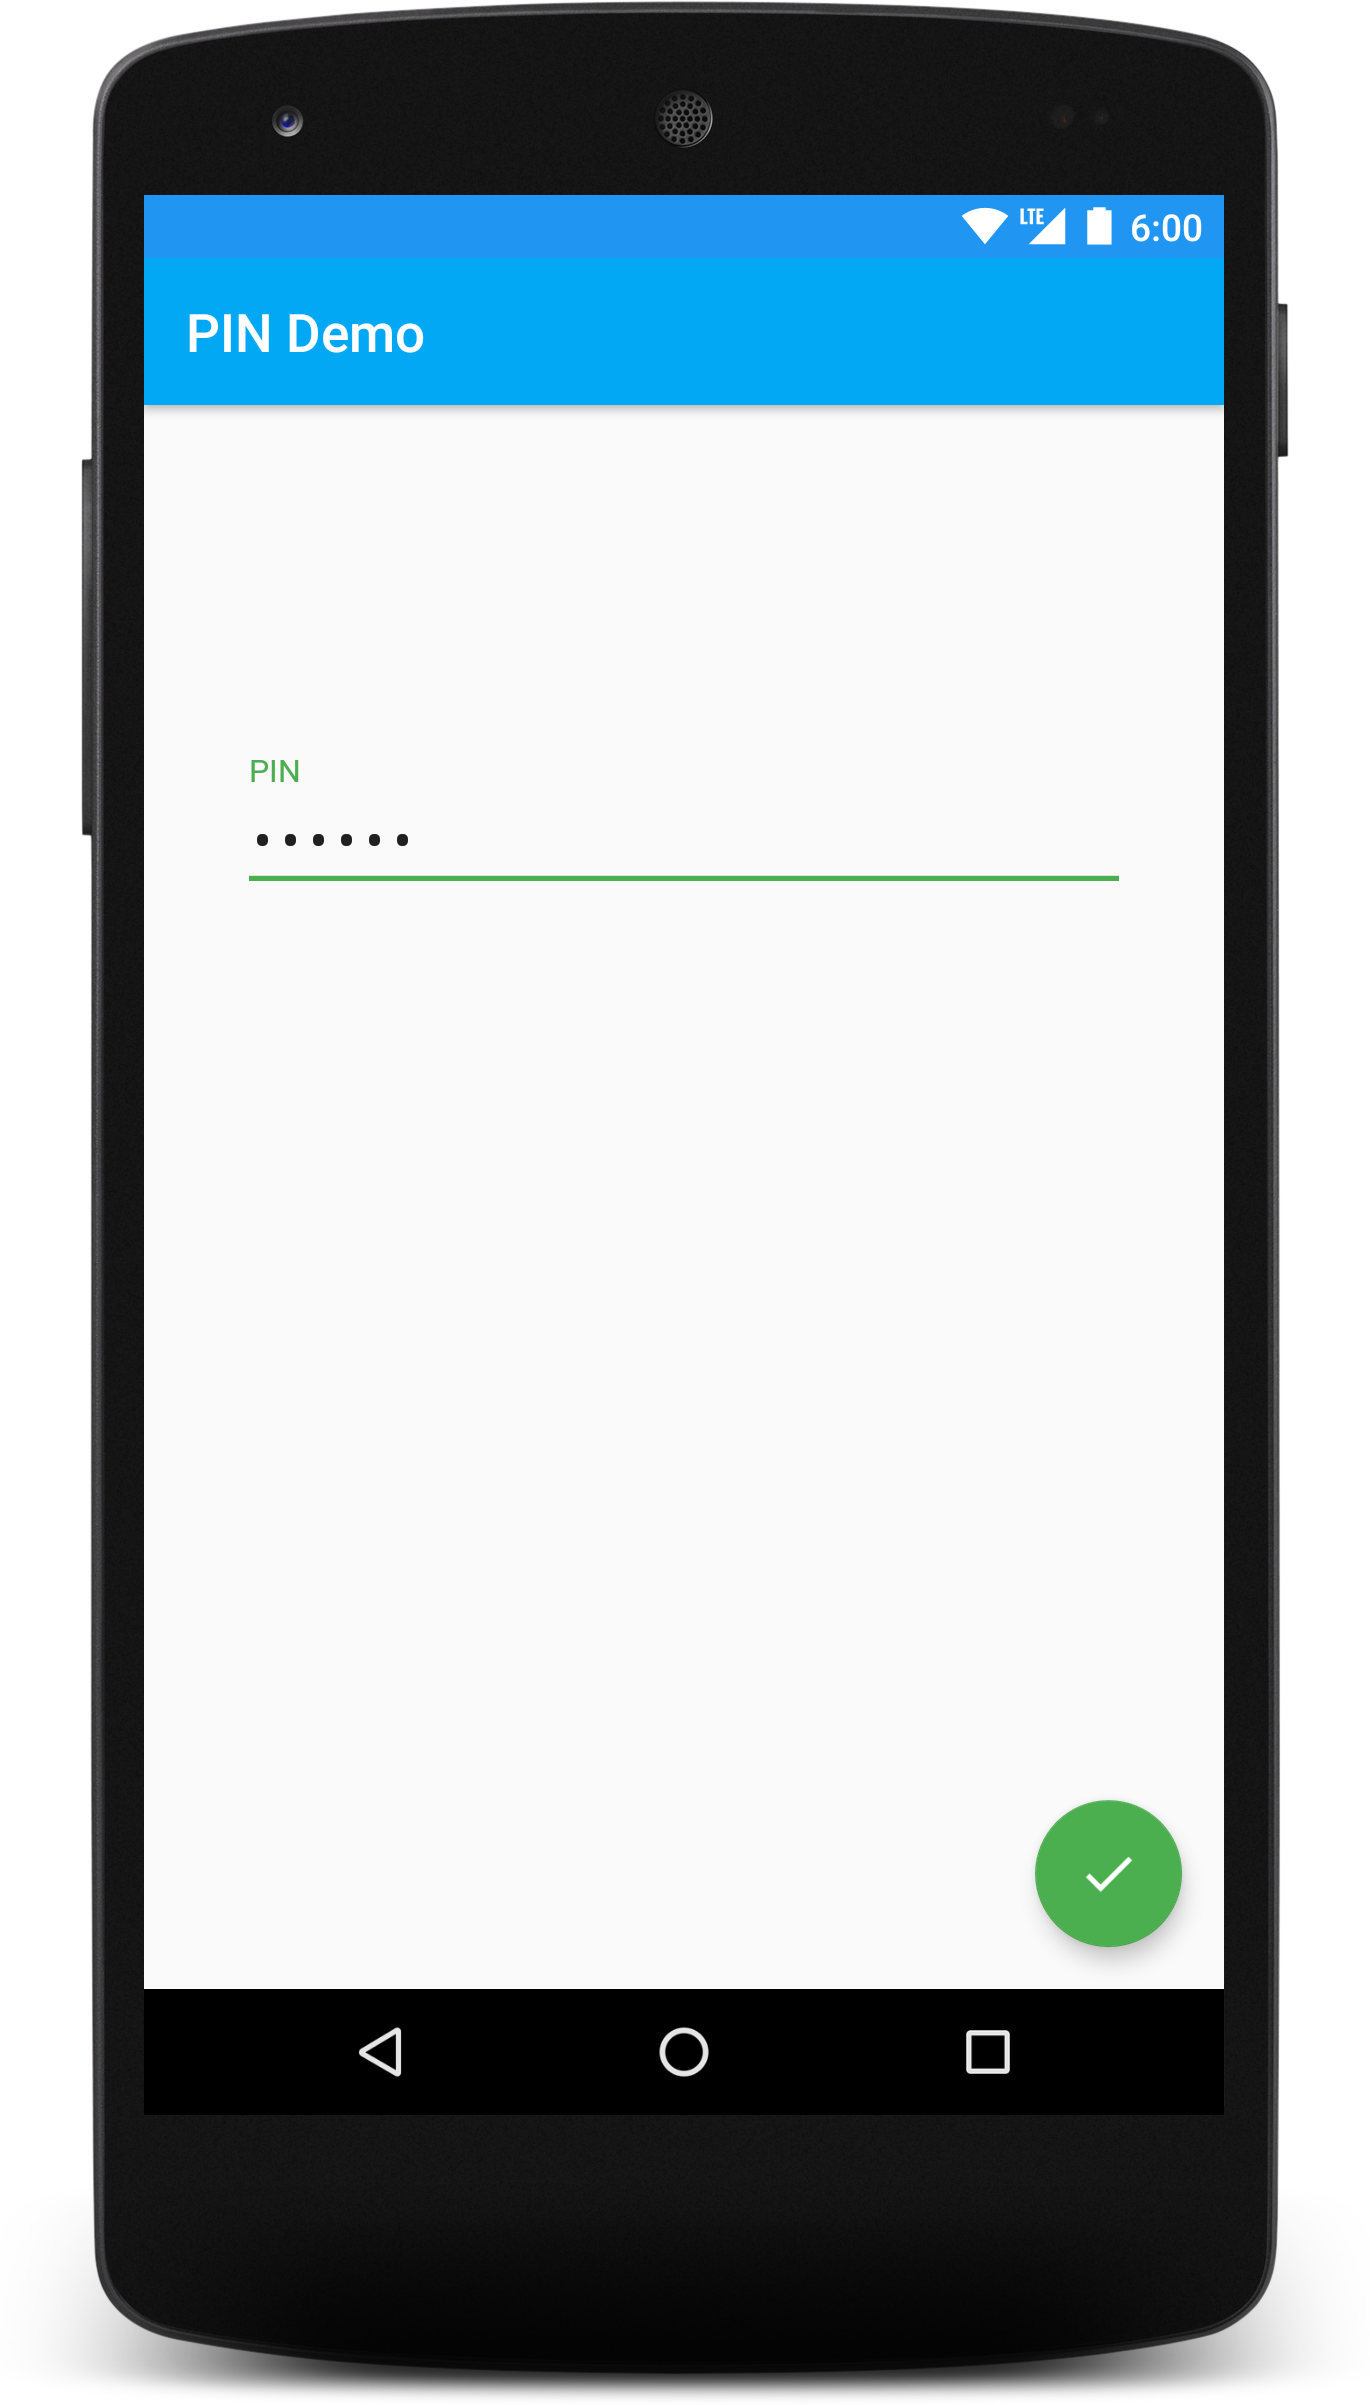
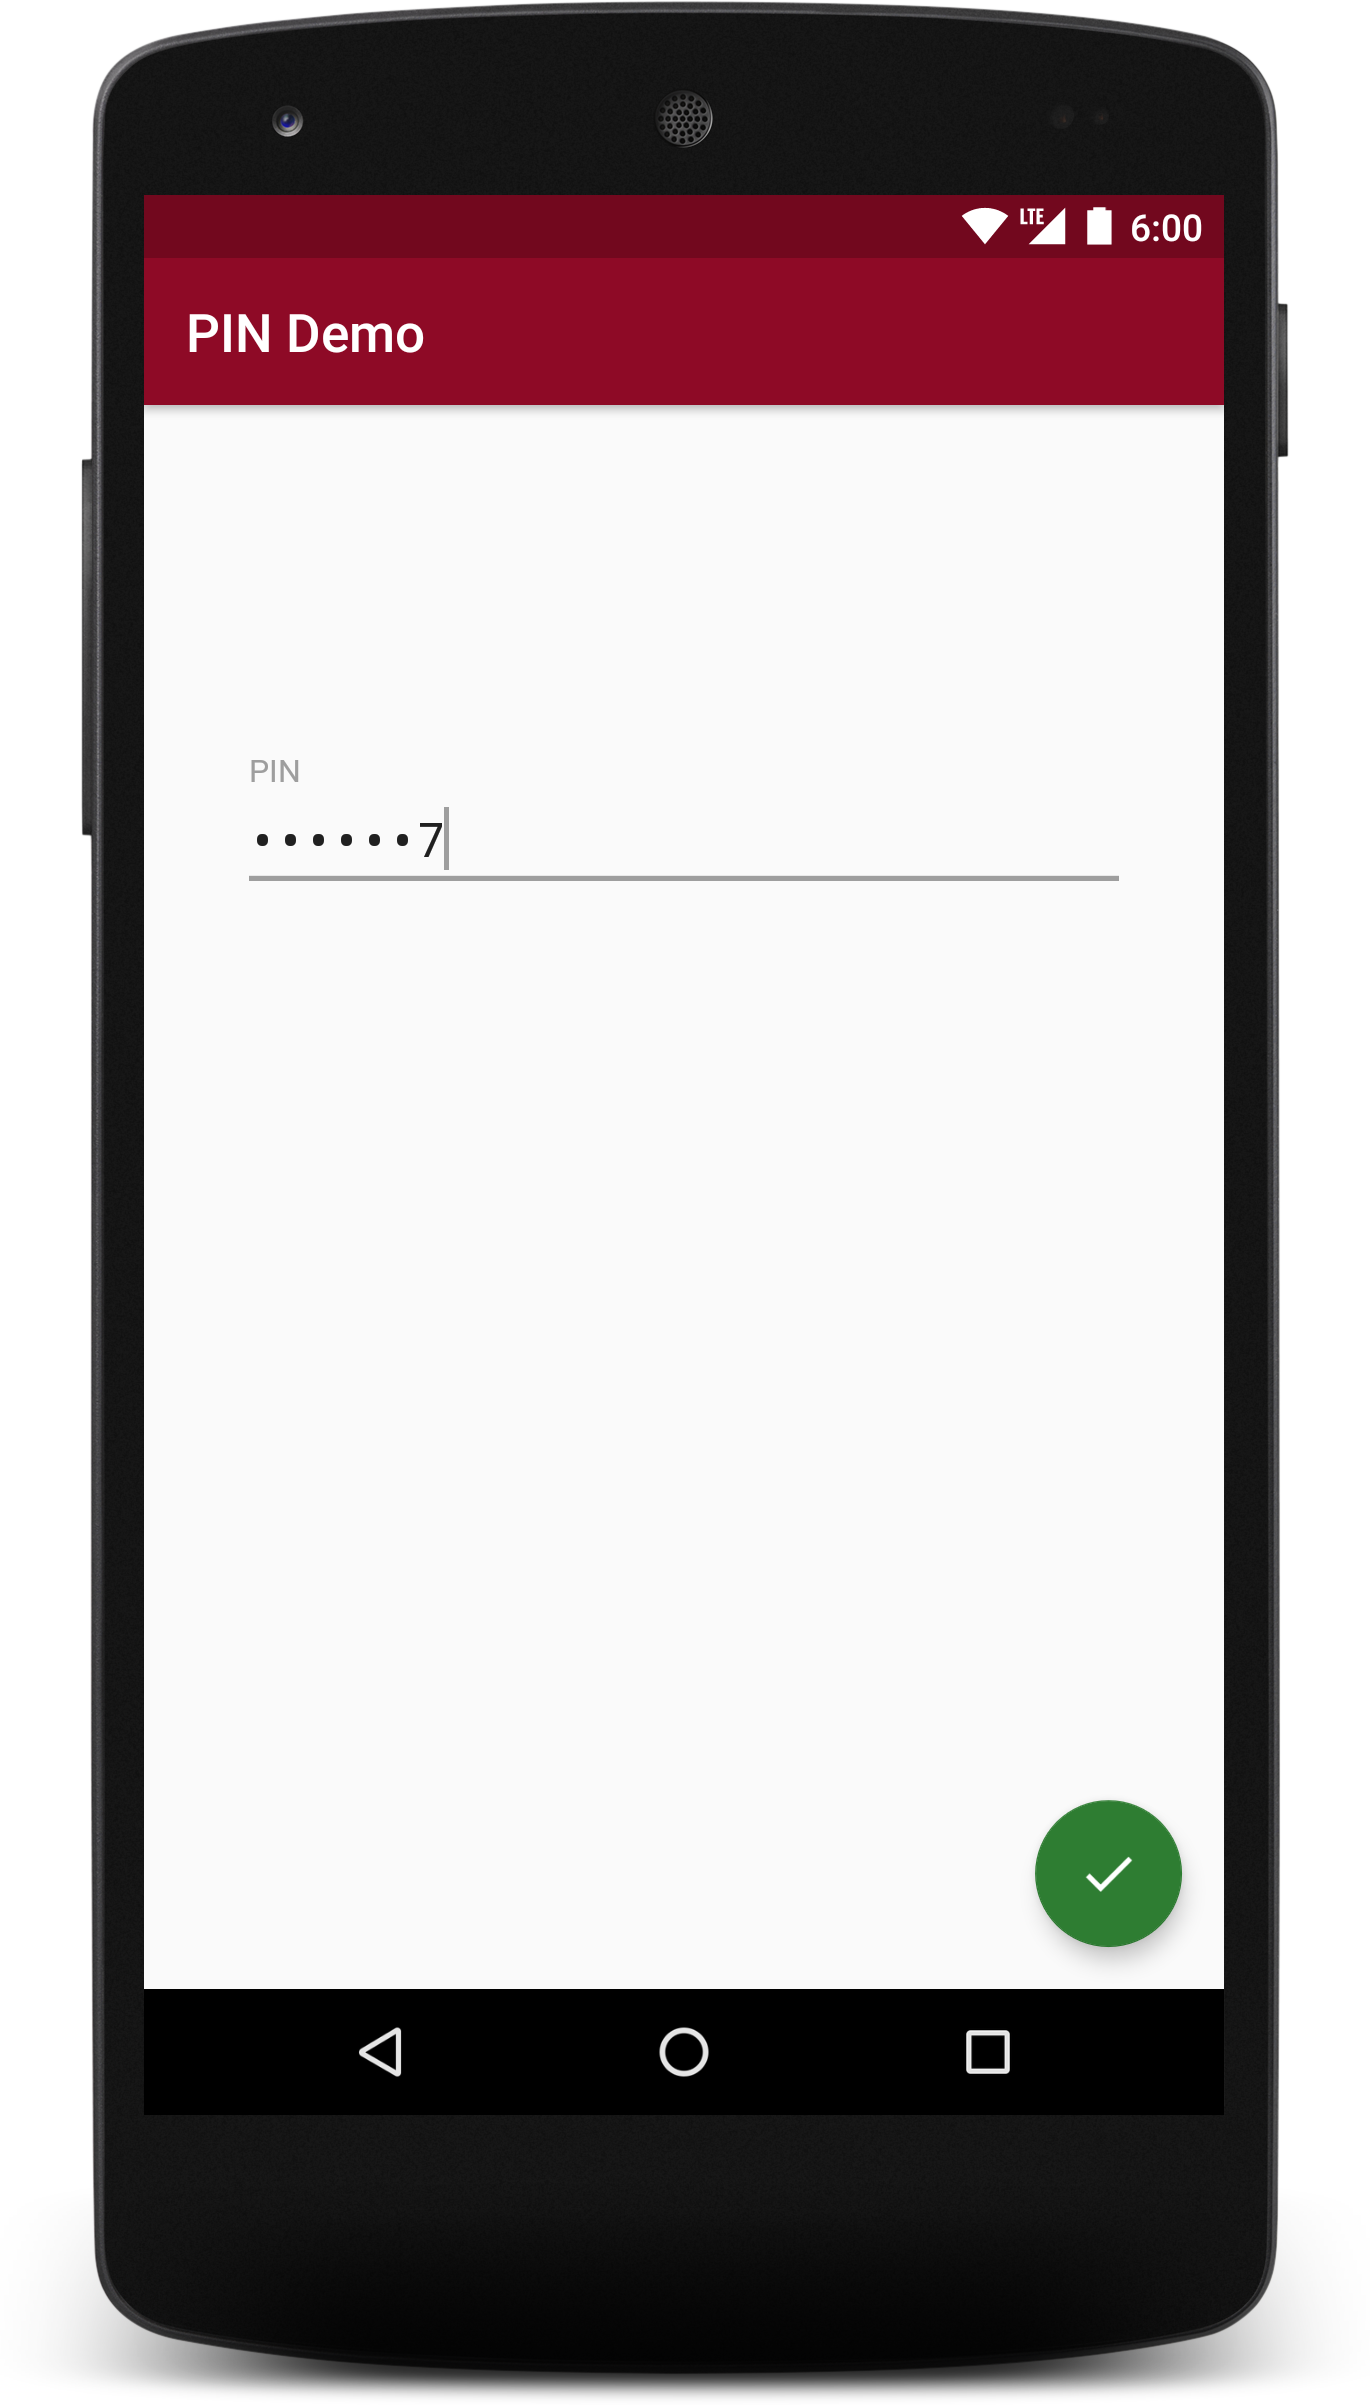
Update gradle android plugin and gradle versions. Code review fixes. Use AutSoft colors in application theme.

diff --git a/app/src/main/java/hu/autsoft/googleio/demo/pin/ui/pin/PinActivity.java b/app/src/main/java/hu/autsoft/googleio/demo/pin/ui/pin/PinActivity.java
@@ -8,6 +8,7 @@ import android.support.design.widget.FloatingActionButton;
 import android.support.design.widget.TextInputLayout;
 import android.support.v7.app.AppCompatActivity;
 import android.support.v7.widget.Toolbar;
+import android.text.TextUtils;
 import android.view.View;
 import android.widget.EditText;
 
@@ -58,7 +59,7 @@ public class PinActivity extends AppCompatActivity {
 	}
 
 	private boolean isPinValid() {
-		if (inputPin.getText().toString() == null || inputPin.getText().toString().isEmpty()) {
+		if (TextUtils.isEmpty(inputPin.getText().toString())) {
 			inputLayoutPin.setError(getString(R.string.pin_error_empty));
 			return false;
 		} else if (inputPin.getText().toString().length() != 6) {
